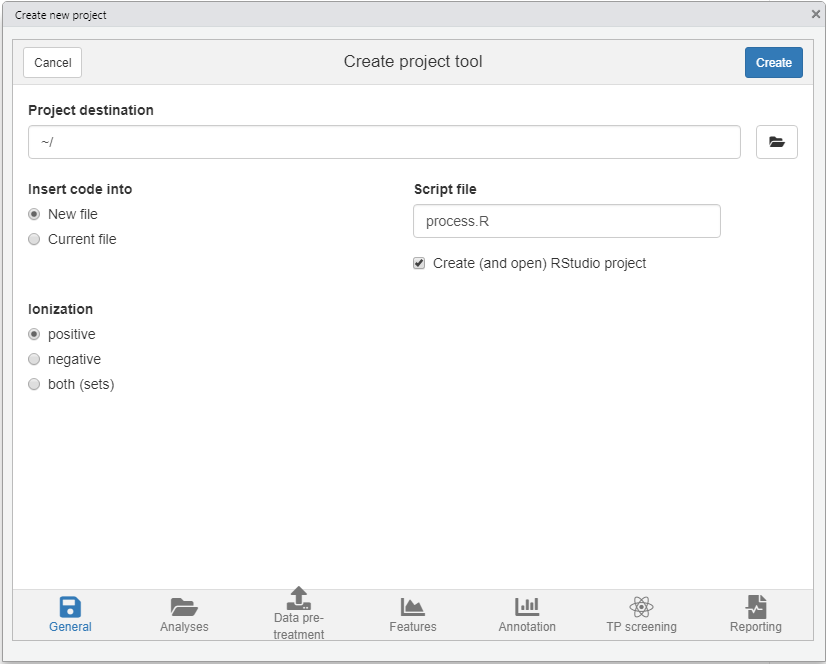
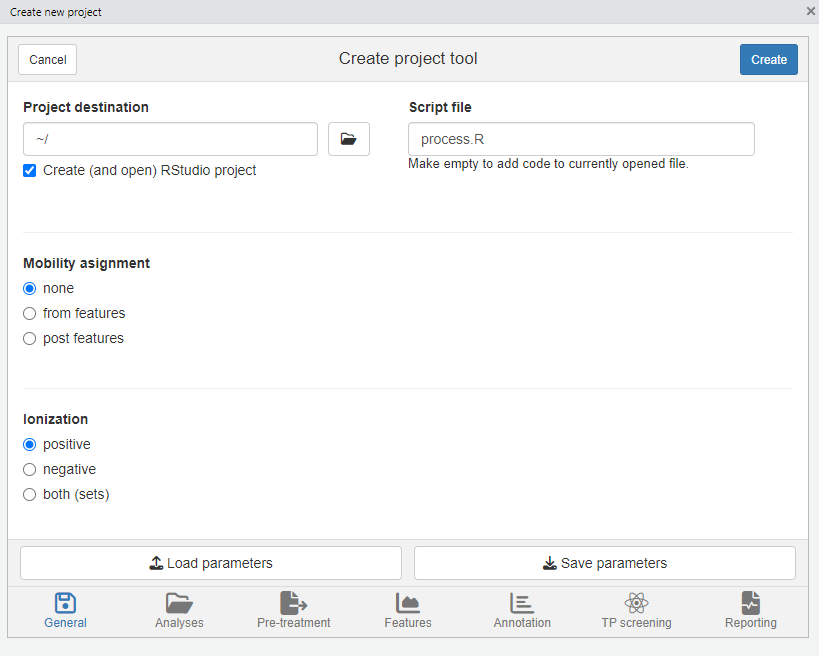
updates for newProject

diff --git a/TODO.md b/TODO.md
@@ -271,7 +271,6 @@
             - update/extend data-pretreatment section
                 - mention im_collapse uses msdata?
                 - fill in IMS chapter link, see what details to put where
-        - update newProject screenshot
         - features
             - update algo tables (piek, import)
             - describe piek params
